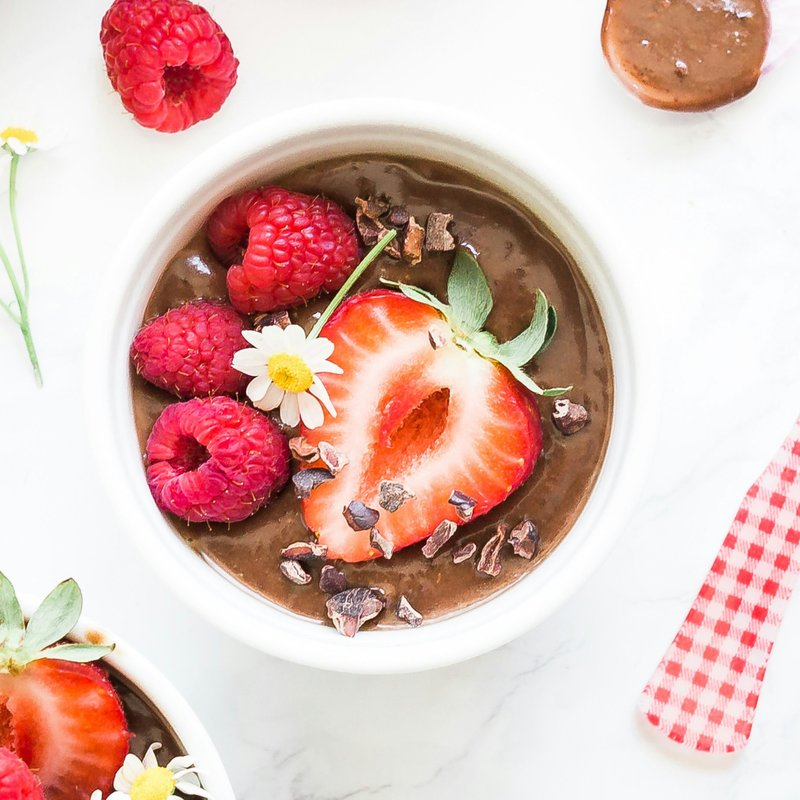
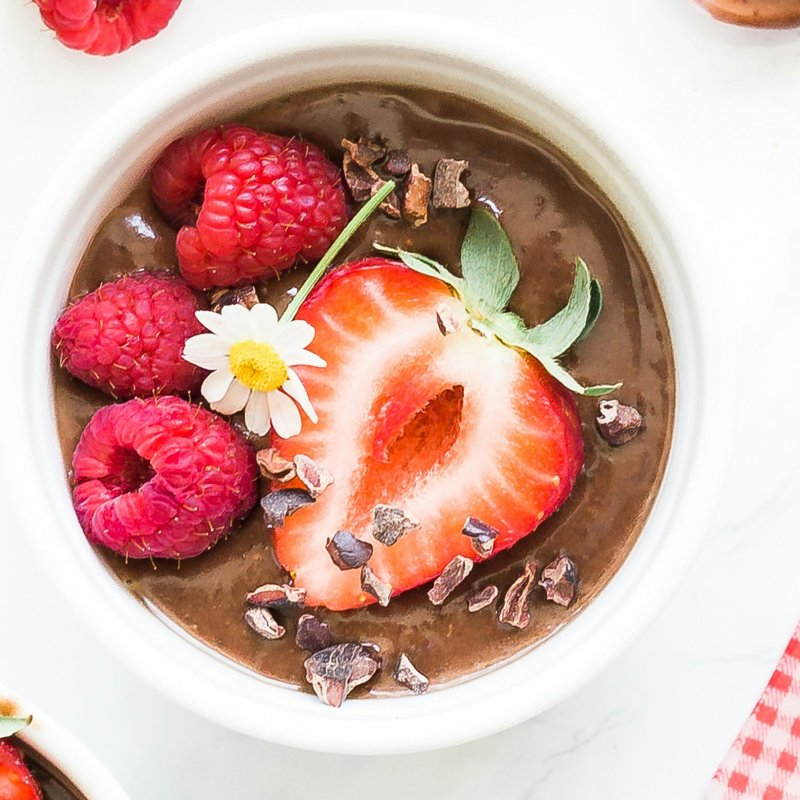
1.2.21 Menu lists each dish once, dish photos recropped so the circle matches the plate and compressed from 15 MB to 1 MB

diff --git a/src/app/shared/mappers/dish-response.mapper.spec.ts b/src/app/shared/mappers/dish-response.mapper.spec.ts
@@ -1,5 +1,5 @@
 import { DishListResponse } from '@app/models/dishes/dish-list-response.model';
-import { normalizeDish, RawDishResponse, withUnit } from './dish-response.mapper';
+import { dedupeDishesByName, normalizeDish, RawDishResponse, withUnit } from './dish-response.mapper';
 
 const baseDish: DishListResponse = {
   id: 'd1',
@@ -31,6 +31,26 @@ describe('normalizeDish', () => {
   it('does not leak the Fats key into the model', () => {
     const raw = { ...baseDish, Fats: '28 g' } as RawDishResponse;
     expect('Fats' in normalizeDish(raw)).toBeFalse();
+  });
+});
+
+describe('dedupeDishesByName', () => {
+  it('keeps only the first copy of a dish that exists once per location', () => {
+    const copies = [
+      { ...baseDish, id: 'loc1-spring' },
+      { ...baseDish, id: 'loc2-spring' },
+      { ...baseDish, id: 'loc1-tart', name: 'Citrus Blackberry Tart' },
+    ];
+    expect(dedupeDishesByName(copies).map((dish) => dish.id)).toEqual(['loc1-spring', 'loc1-tart']);
+  });
+
+  it('treats names that differ only in case or spacing as the same dish', () => {
+    const copies = [baseDish, { ...baseDish, id: 'd2', name: ' spring salad ' }];
+    expect(dedupeDishesByName(copies).length).toBe(1);
+  });
+
+  it('returns an empty list for no dishes', () => {
+    expect(dedupeDishesByName([])).toEqual([]);
   });
 });
 

diff --git a/src/app/services/dishes/dishes.service.ts b/src/app/services/dishes/dishes.service.ts
@@ -2,7 +2,7 @@ import { inject, Injectable } from '@angular/core';
 import { API_BASE_URL } from '@app/shared/config/api-base-url.token';
 import { DishListResponse } from '@app/models/dishes/dish-list-response.model';
 import { map, Observable } from 'rxjs';
-import { normalizeDishes, RawDishResponse } from '@app/shared/mappers/dish-response.mapper';
+import { dedupeDishesByName, normalizeDishes, RawDishResponse } from '@app/shared/mappers/dish-response.mapper';
 import { HttpClient, HttpParams } from '@angular/common/http';
 
 @Injectable({ providedIn: 'root' })
@@ -33,6 +33,6 @@ export class DishesService {
 
     return this.http
       .get<RawDishResponse[]>(`${this.baseUrl}/dishes`, { params })
-      .pipe(map(normalizeDishes));
+      .pipe(map((raw) => dedupeDishesByName(normalizeDishes(raw))));
   }
 }

diff --git a/src/app/shared/mappers/dish-response.mapper.ts b/src/app/shared/mappers/dish-response.mapper.ts
@@ -12,6 +12,19 @@ export function normalizeDishes(raw: RawDishResponse[]): DishListResponse[] {
   return raw.map(normalizeDish);
 }
 
+/** The dishes API keeps one copy of every dish per location; the menu should list each dish once. */
+export function dedupeDishesByName(dishes: DishListResponse[]): DishListResponse[] {
+  const seen = new Set<string>();
+  return dishes.filter((dish) => {
+    const key = (dish.name ?? '').trim().toLowerCase();
+    if (seen.has(key)) {
+      return false;
+    }
+    seen.add(key);
+    return true;
+  });
+}
+
 /** Appends a unit only when the API value does not carry one already ("540 kcal" vs "540"). */
 export function withUnit(value: string | null | undefined, unit: string): string {
   const text = (value ?? '').trim();

diff --git a/src/app/services/dishes/dishes.service.spec.ts b/src/app/services/dishes/dishes.service.spec.ts
@@ -30,6 +30,19 @@ describe('DishesService', () => {
     expect(fats).toBe('28 g');
   });
 
+  it('lists a dish once even though every location stores its own copy', () => {
+    let names: string[] = [];
+    service.getDishes().subscribe((dishes) => (names = dishes.map((dish) => dish.name)));
+
+    httpMock.expectOne((r) => r.url === `${baseUrl}/dishes`).flush([
+      { id: 'a-1', name: 'Spring Salad', price: 12 },
+      { id: 'b-1', name: 'Spring Salad', price: 12 },
+      { id: 'a-2', name: 'Avocado Egg Toast', price: 9 },
+    ]);
+
+    expect(names).toEqual(['Spring Salad', 'Avocado Egg Toast']);
+  });
+
   it('passes the filters as query params', () => {
     service.getDishes('Appetizer', 'PriceAscending').subscribe();
 
